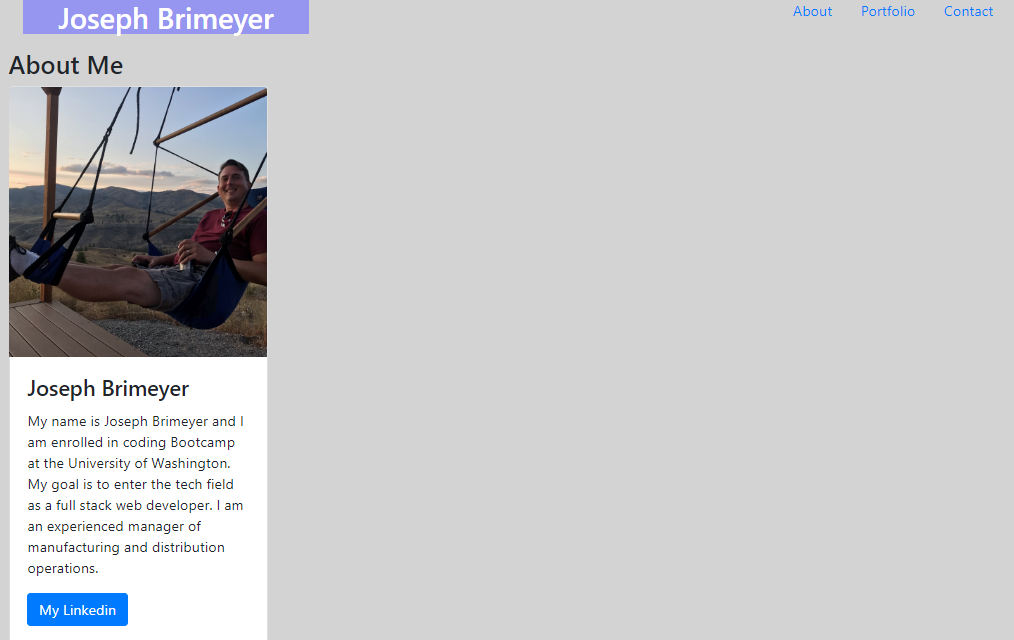
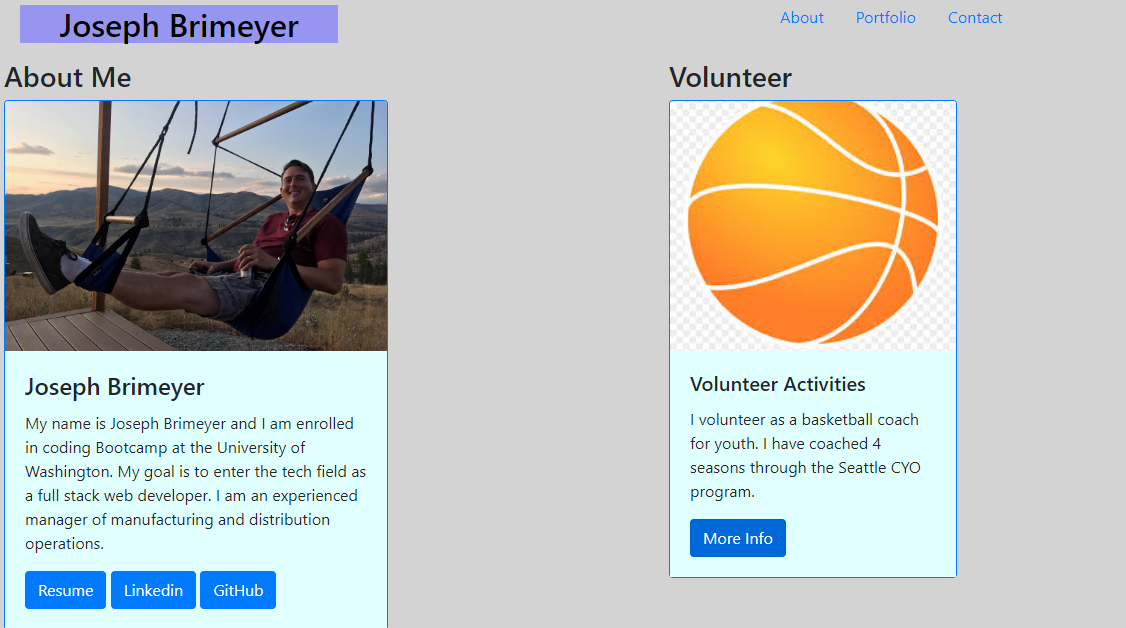
Updated images and readme.

diff --git a/README.md b/README.md
@@ -1,4 +1,58 @@
-# responsive-portfolio
-This project is a mobile responsive portfolio that highlights my accompolishments and interests.  It was created using Bootstrap and is responsive across multiple devices.  The project will evolve as I acquire experiece in full stack web development.
+# My-Portfolio
 
-Joe Brimeyer
+
+## Description 
+
+This project is a mobile responsive portfolio that highlights my accompolishments and interests.  The application showcases my talents and experience by allowing the user to view my web development projects, my GitHub repositories, my Linkedin profile, and my resume.  My-Portfolio was created using Bootstrap and is responsive across multiple devices.  This project will continue to evolve as I acquire additional skills in full stack web development.  My-Portfolio is an application that runs in the browser and features HTML and CSS.  In the future, I will update this app to incorporate better styling and increase the number of projects that are accessable from the site.
+
+## Installation
+
+My-Portfolio is hosted on github.  The installation requires that the user launch the application in their browser by clicking the following link:
+
+https://josephbrimeyer.github.io/my-portfolio/
+
+
+## Photos
+
+Here is a photo of the deployed application:
+
+![My-Portfolio](./images/my-portfolio.png)
+![My-Portfolio2](./images/my-portfolio2.png)
+
+## Usage 
+
+Upon loading the browser page, the user can click on links to view some of my personal information, my resume, my GitHub repositories, my projects, my Linkedin profile, and my volunteering experience.
+
+
+## Credits
+Bootstrap: 
+GitHub:
+Linkedin:
+
+## License
+
+MIT License
+
+Copyright (c) [2020] [Joseph Brimeyer]
+
+Permission is hereby granted, free of charge, to any person obtaining a copy
+of this software and associated documentation files (the "Software"), to deal
+in the Software without restriction, including without limitation the rights
+to use, copy, modify, merge, publish, distribute, sublicense, and/or sell
+copies of the Software, and to permit persons to whom the Software is
+furnished to do so, subject to the following conditions:
+
+The above copyright notice and this permission notice shall be included in all
+copies or substantial portions of the Software.
+
+THE SOFTWARE IS PROVIDED "AS IS", WITHOUT WARRANTY OF ANY KIND, EXPRESS OR
+IMPLIED, INCLUDING BUT NOT LIMITED TO THE WARRANTIES OF MERCHANTABILITY,
+FITNESS FOR A PARTICULAR PURPOSE AND NONINFRINGEMENT. IN NO EVENT SHALL THE
+AUTHORS OR COPYRIGHT HOLDERS BE LIABLE FOR ANY CLAIM, DAMAGES OR OTHER
+LIABILITY, WHETHER IN AN ACTION OF CONTRACT, TORT OR OTHERWISE, ARISING FROM,
+OUT OF OR IN CONNECTION WITH THE SOFTWARE OR THE USE OR OTHER DEALINGS IN THE
+SOFTWARE.
+## Contributing
+
+[Contributor Covenant](https://www.contributor-covenant.org/)
+
